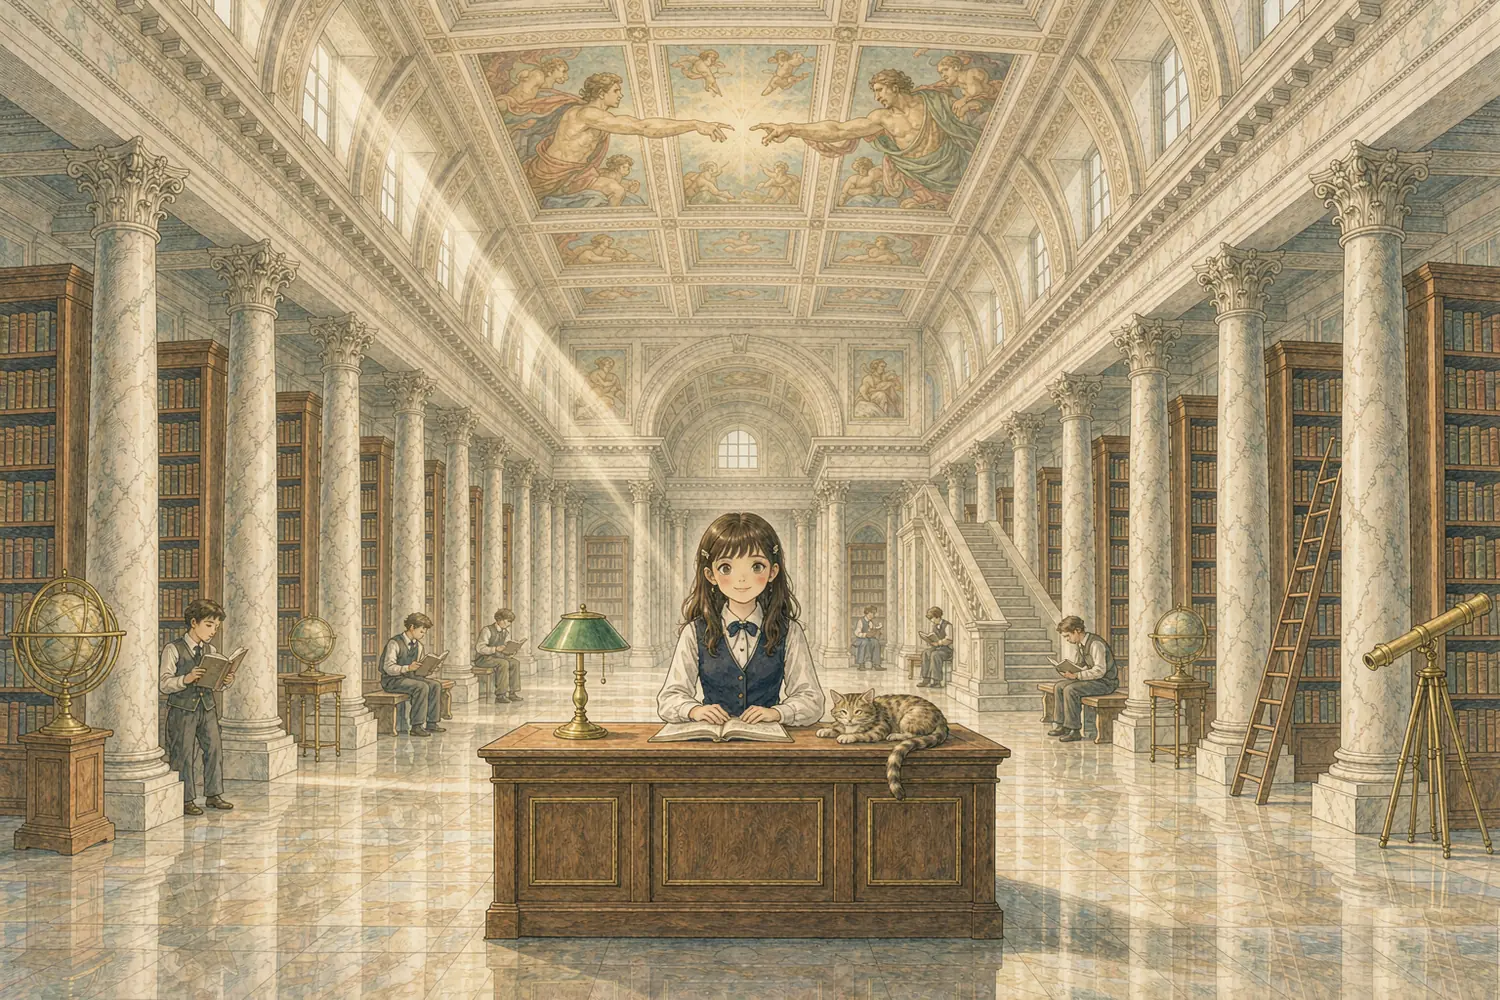
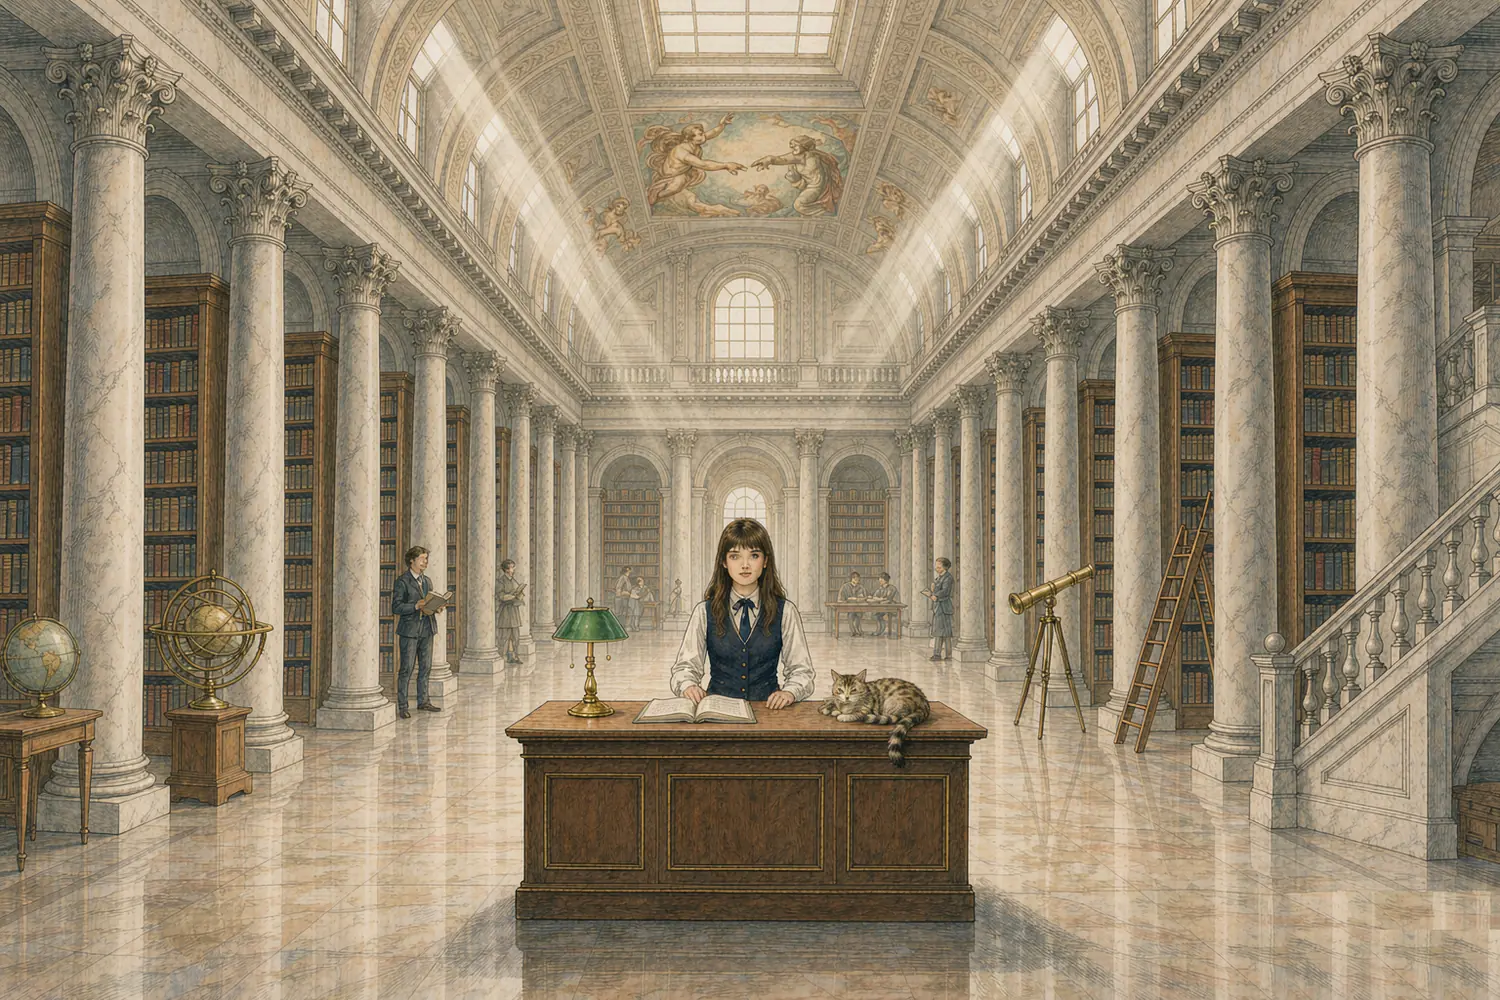
馆藏原件六版：以四版为底改图（接待员换脸模、读者改看书姿势、楼梯保持、穹顶加创世纪壁画）

diff --git a/index.html b/index.html
@@ -1853,17 +1853,19 @@ img{display:block}
      ⚠ 她画在图里、挂在舞台的**竖直中线附近**（头顶离中线只差 1.5% 舞台高），
         所以缩放对她的挂点几乎无影响（0.485 → 0.483，约 3px）。 */
   --ar-zoom:1.15;
-  /* 她头顶的高度（量自内厅图：五版 0.514 × 全高 → 离舞台底边 0.486）。
-     ⚠ 换内厅图**必须重量**：取正中 9% 宽的一条做亮度剖面，找明显暗于石墙的第一格
-        （深色头发的最上沿），脚本在技能分卷里。 */
-  --ar-head:calc(var(--ar-stage-h) * .486 - var(--ar-crop))}
+  /* 她头顶的高度（量自内厅图：六版 0.525 × 全高 → 离舞台底边 0.475）。
+     ⚠ 换内厅图**必须重量**。⚠⚠ **别用简单的"第一条暗行"** —— 六版穹顶加了湿壁画后，
+        中央竖直带在 y≈0.40 处多出一条暗线（凹格/拱券的轮廓），自动判据会把它当成"头发顶"、
+        把气泡顶到天花板上去。正解：**先把候选线画出来目视定夺**，或把搜索窗口收到
+        她应该在的位置附近（本例 y ∈ 0.48–0.60 全高），再取"明显暗于石墙的第一格"。 */
+  --ar-head:calc(var(--ar-stage-h) * .475 - var(--ar-crop))}
 
 /* ── ① 内厅（门背后那一层）─────────────────────────────────────────────── */
 .arc-scene{position:absolute;inset:0;z-index:0;transform:scale(var(--ar-zoom,1));
   transition:transform 2.6s cubic-bezier(.3,.02,.26,1)}
 .arcwall.push .arc-scene{transform:scale(calc(var(--ar-zoom,1) * 1.06))}
 .arc-hall{position:absolute;inset:0;
-  background:url("assets/archive-hall.webp?v=20260922e") center/100% 100% no-repeat}
+  background:url("assets/archive-hall.webp?v=20260922f") center/100% 100% no-repeat}
 .arc-hallv{position:absolute;inset:0;
   background:radial-gradient(ellipse 60% 44% at 50% 44%,rgba(255,252,244,.26),rgba(255,250,240,0) 72%),
     linear-gradient(180deg,rgba(58,42,24,.20),rgba(58,42,24,0) 24%,
@@ -4578,6 +4580,6 @@ footer .ft-legal b{color:var(--muted);font-weight:500}
 <script src="study-plan.js?v=20260922c"></script>
 <script src="docs.js?v=20260921c"></script>
 <script src="app.js?v=20260920f"></script>
-<script src="knowledge.js?v=20260922r"></script>
+<script src="knowledge.js?v=20260922s"></script>
 </body>
 </html>

diff --git a/knowledge.js b/knowledge.js
@@ -2287,7 +2287,7 @@ function warmGateImages() {
        门是进门第一眼（必须已经在缓存里），内厅在 760ms 后就要露出来；
        接待员（65 KB）要 2.4s 之后才淡入，留给她自己慢慢下。 */
     "assets/archive-door.webp?v=20260922a",
-    "assets/archive-hall.webp?v=20260922e"
+    "assets/archive-hall.webp?v=20260922f"
   ];
   list.forEach(function (u) {
     var im = new Image();
